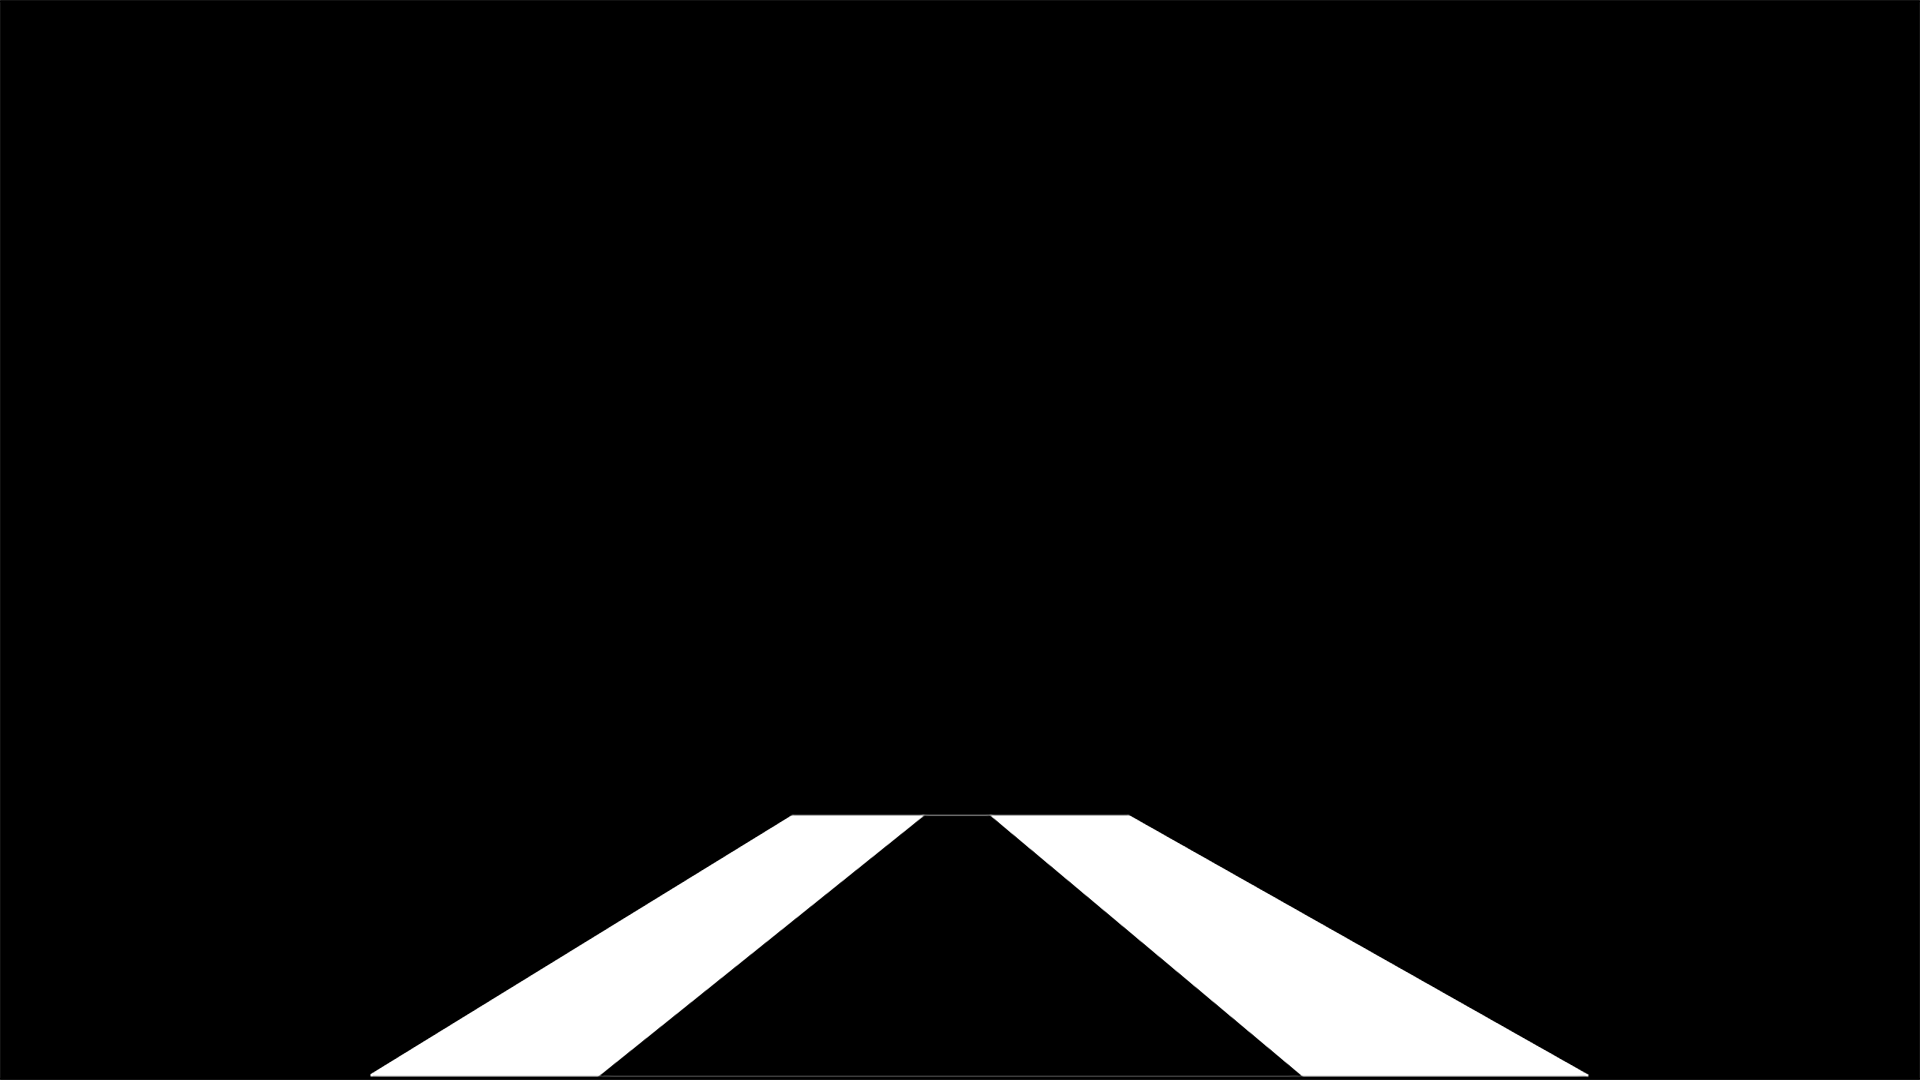
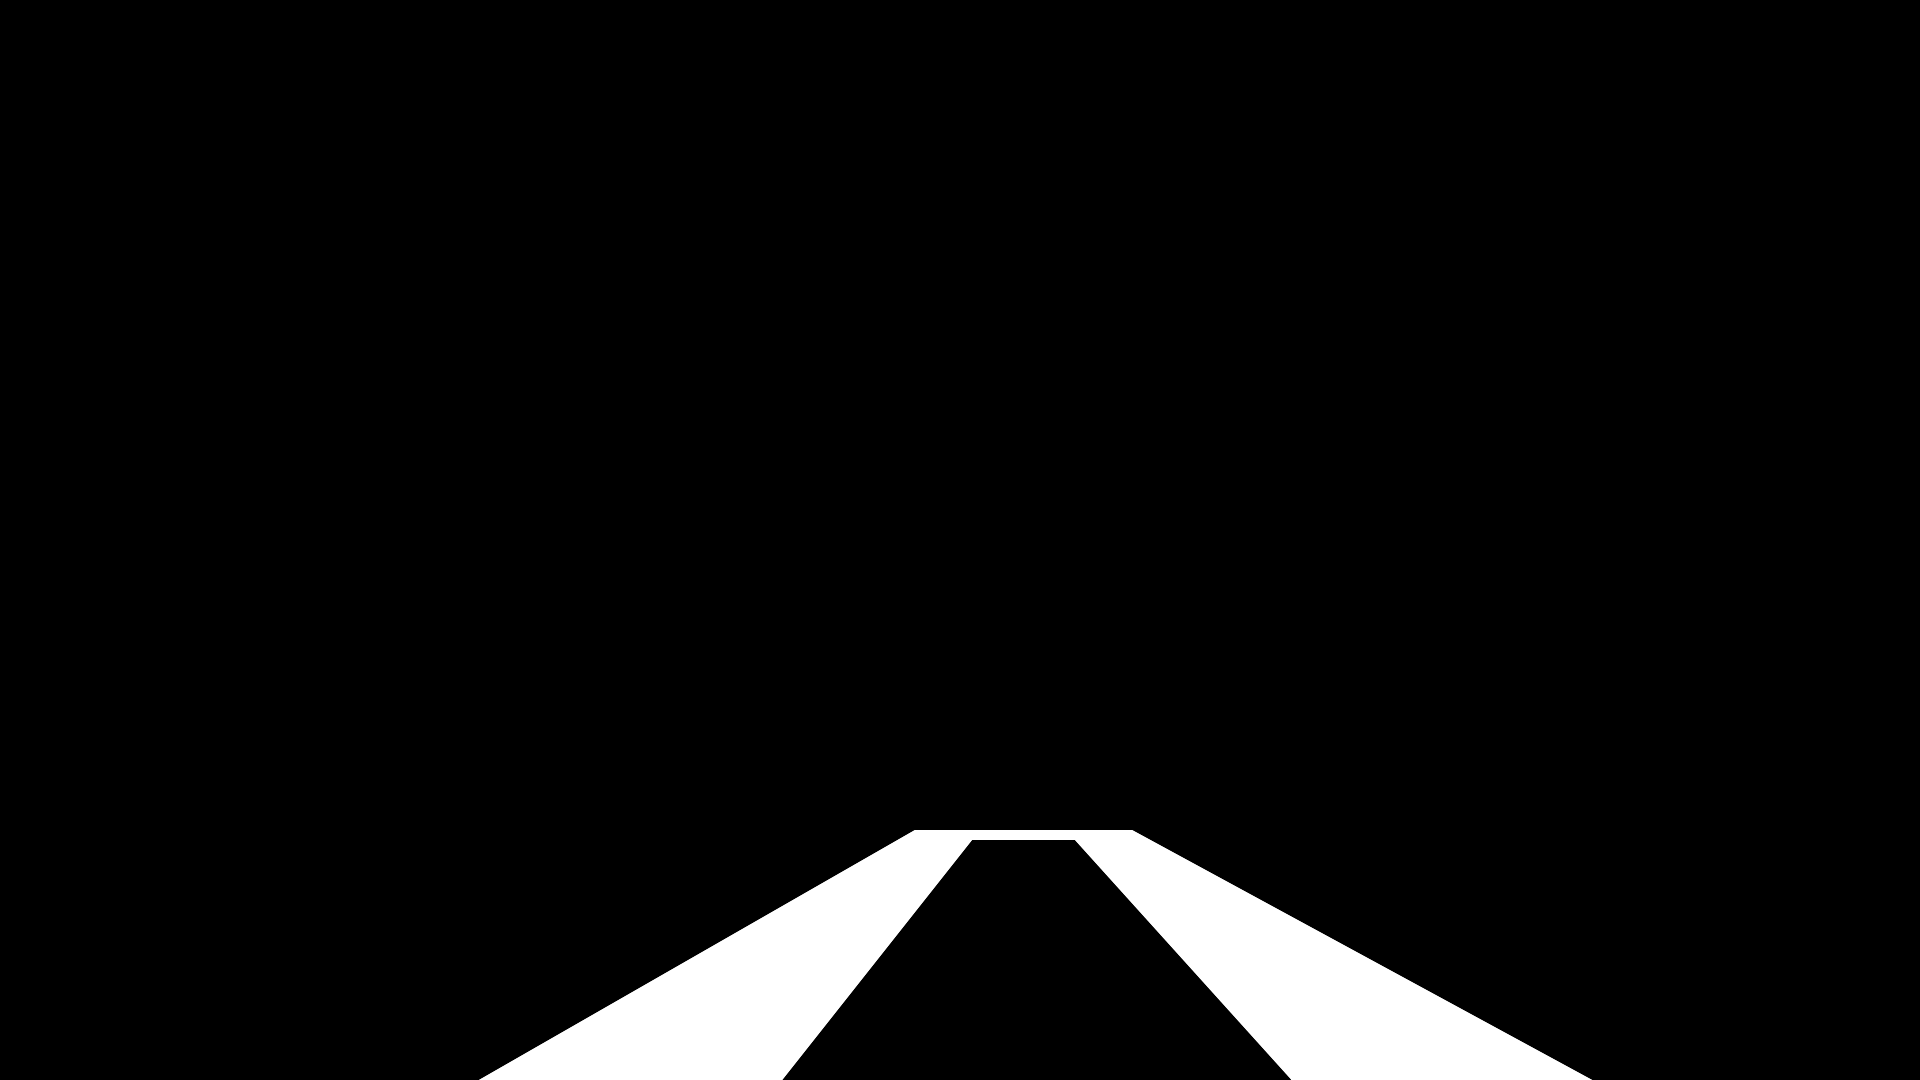
720p

diff --git a/main.py b/main.py
@@ -1,10 +1,8 @@
-from http.client import CannotSendHeader
+
 import cv2
-from cv2 import bilateralFilter
-import numpy as np
 
 Drive = cv2.VideoCapture('drive.mp4')
-roi = cv2.imread('roi.png')
+roi = cv2.imread('roi_720.png')
 
 while Drive.isOpened():
     run, frame = Drive.read()
@@ -13,17 +11,19 @@ while Drive.isOpened():
         break
     RGB = cv2.cvtColor(frame, cv2.IMREAD_COLOR)
     HSV = cv2.cvtColor(frame, cv2.COLOR_BGR2HSV)
-    lower = (13, 10, 195)
-    upper = (27, 45, 255)
+    lower = (0, 0, 190)
+    upper = (120, 30, 255)
 
-    mask = cv2.bitwise_and(HSV, roi)
+    mask = cv2.bilateralFilter(HSV, 2, 10, 10)
+    mask = cv2.GaussianBlur(mask, (3, 3), 0)
+
+    mask = cv2.bitwise_and(mask, roi)
     mask = cv2.inRange(mask, lower, upper)
 
-    mask = bilateralFilter(mask, -1, 10, 5)
-    mask = cv2.Canny(mask, 100, 200)
+    mask = cv2.Canny(mask, 200, 200)
 
-    RGB = cv2.resize(RGB, (640, 360))
-    mask = cv2.resize(mask, (640, 360))
+    RGB = cv2.resize(RGB, (960, 540))
+    mask = cv2.resize(mask, (960, 540))
     cv2.imshow('mask', mask)
     cv2.imshow('video', RGB)
     if cv2.waitKey(30) & 0xFF == ord('q'):
